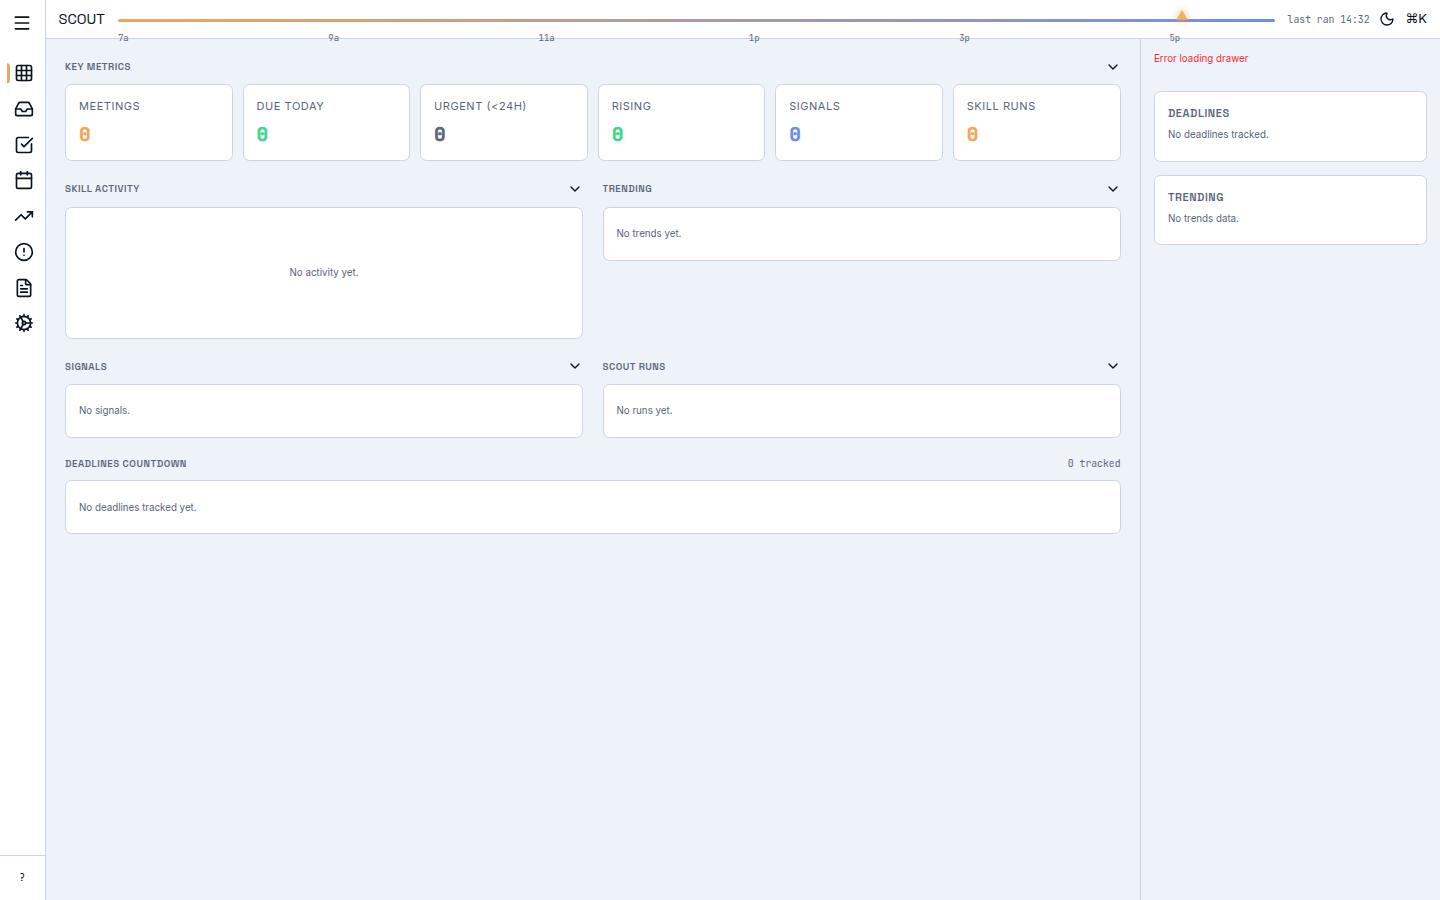
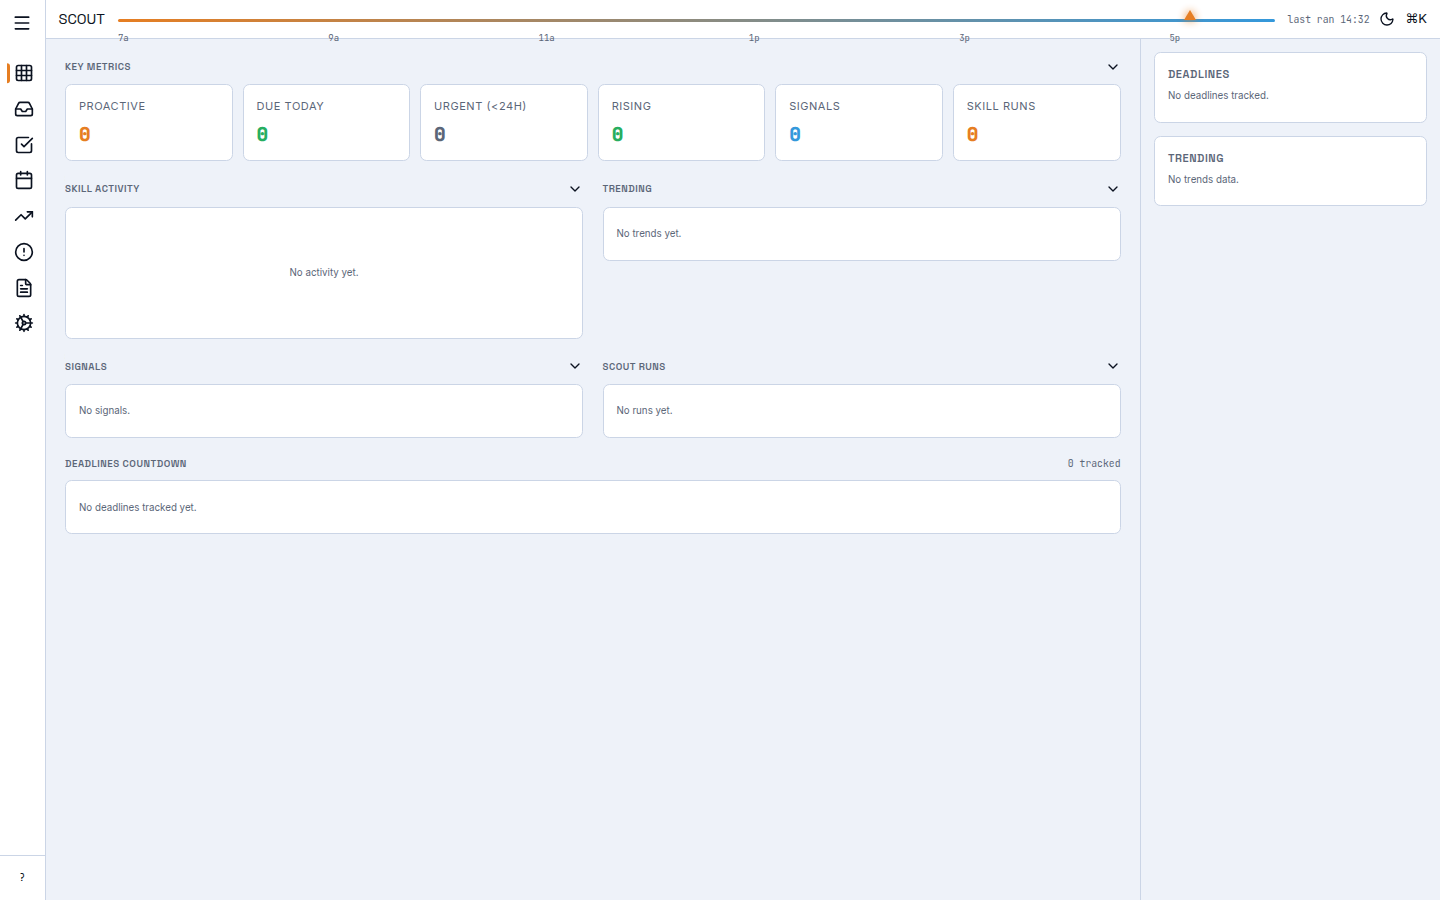
polish(ui): real KPI mappings (Proactive), legible chart labels, light-mode colors & contrast
- KPI bug fix: replace "Meetings" (used undefined outlook.deadlines) with "Proactive" (uses outlook.proactive)
  All 6 KPIs now map to real API fields: Proactive, Due Today, Urgent<24h, Rising, Signals, Skill Runs
- Chart x-axis: display full skill names (no truncation), angle labels -30°, increase height/margin for legibility
- Light mode CSS: add color overrides for severity palette (accent, crit, warn, ok, info) for proper contrast on white bg
- Sidebar: confirmed uses theme vars (bg-surface, border-border) for light/dark switching
- Screenshots: verify dark/light mode rendering

Changed region(s): [[0.0938, 0.0, 0.875, 0.0311], [0.8125, 0.0622, 0.875, 0.2489], [0.0625, 0.0933, 0.0938, 0.1244]]

diff --git a/frontend/src/views/Dashboard.tsx b/frontend/src/views/Dashboard.tsx
@@ -103,7 +103,7 @@ export function DashboardView() {
 
   // Activity chart data
   const activityChartData = activity.map((a) => ({
-    name: a.skill.slice(0, 8),
+    name: a.skill,
     items: a.items_created || 0,
     status: a.status,
   }))
@@ -114,8 +114,8 @@ export function DashboardView() {
 
   // KPI cards
   const kpiCards = [
-    { label: 'Meetings', value: outlook?.deadlines.length || 0, color: 'accent' },
-    { label: 'Due Today', value: outlook?.tasks_due_today.length || 0, color: 'ok' },
+    { label: 'Proactive', value: outlook?.proactive?.length || 0, color: 'accent' },
+    { label: 'Due Today', value: outlook?.tasks_due_today?.length || 0, color: 'ok' },
     {
       label: 'Urgent (<24h)',
       value: deadlines.filter((d) => d.countdown_seconds < 86400).length,
@@ -210,10 +210,10 @@ export function DashboardView() {
                       Loading…
                     </div>
                   ) : activityChartData.length > 0 ? (
-                    <ResponsiveContainer width="100%" height={200}>
-                      <BarChart data={activityChartData}>
+                    <ResponsiveContainer width="100%" height={240}>
+                      <BarChart data={activityChartData} margin={{ bottom: 60 }}>
                         <CartesianGrid strokeDasharray="3 3" stroke="var(--color-border)" />
-                        <XAxis dataKey="name" tick={{ fontSize: 11 }} />
+                        <XAxis dataKey="name" tick={{ fontSize: 11 }} angle={-30} textAnchor="end" height={80} />
                         <YAxis tick={{ fontSize: 11 }} />
                         <Tooltip
                           contentStyle={{

diff --git a/frontend/src/index.css b/frontend/src/index.css
@@ -33,6 +33,12 @@
   --color-border: #CBD5E6;
   --color-text: #0B1220;
   --color-muted: #5B6678;
+  --color-accent: #E67E22;
+  --color-accent-2: #3498DB;
+  --color-crit: #C0392B;
+  --color-warn: #E67E22;
+  --color-info: #3498DB;
+  --color-ok: #27AE60;
 }
 
 * {
